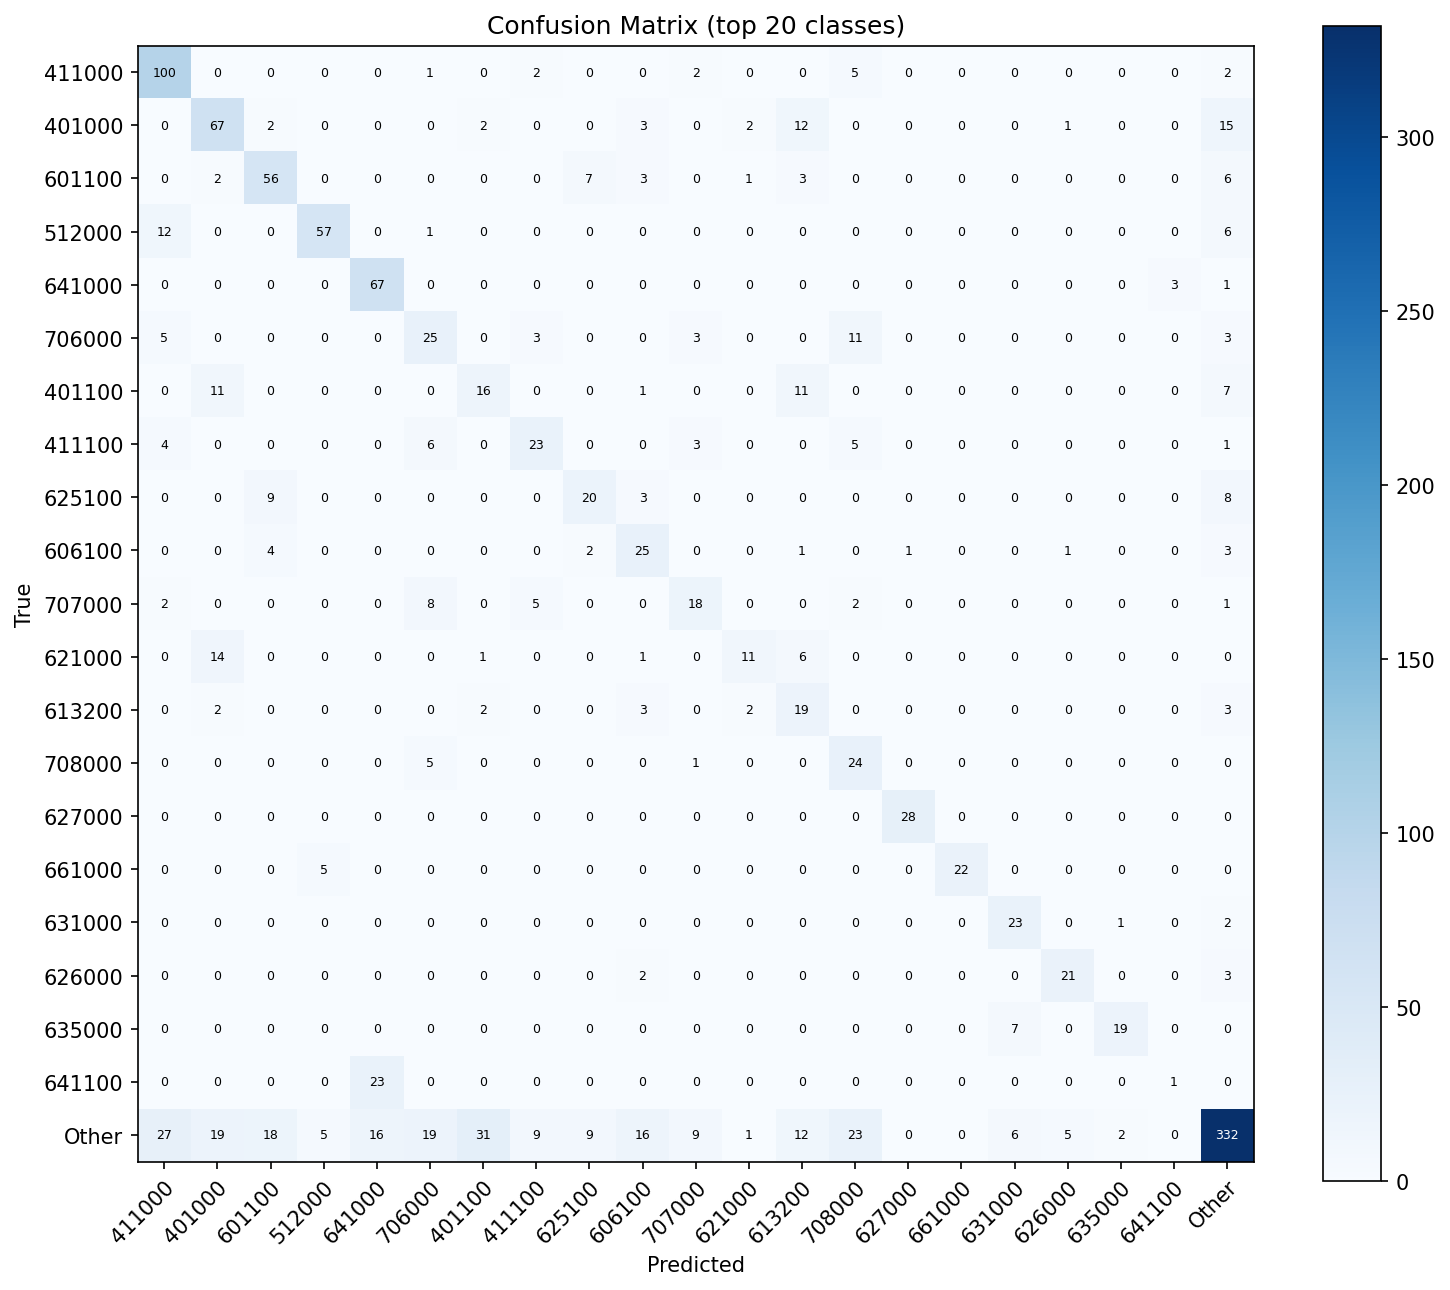
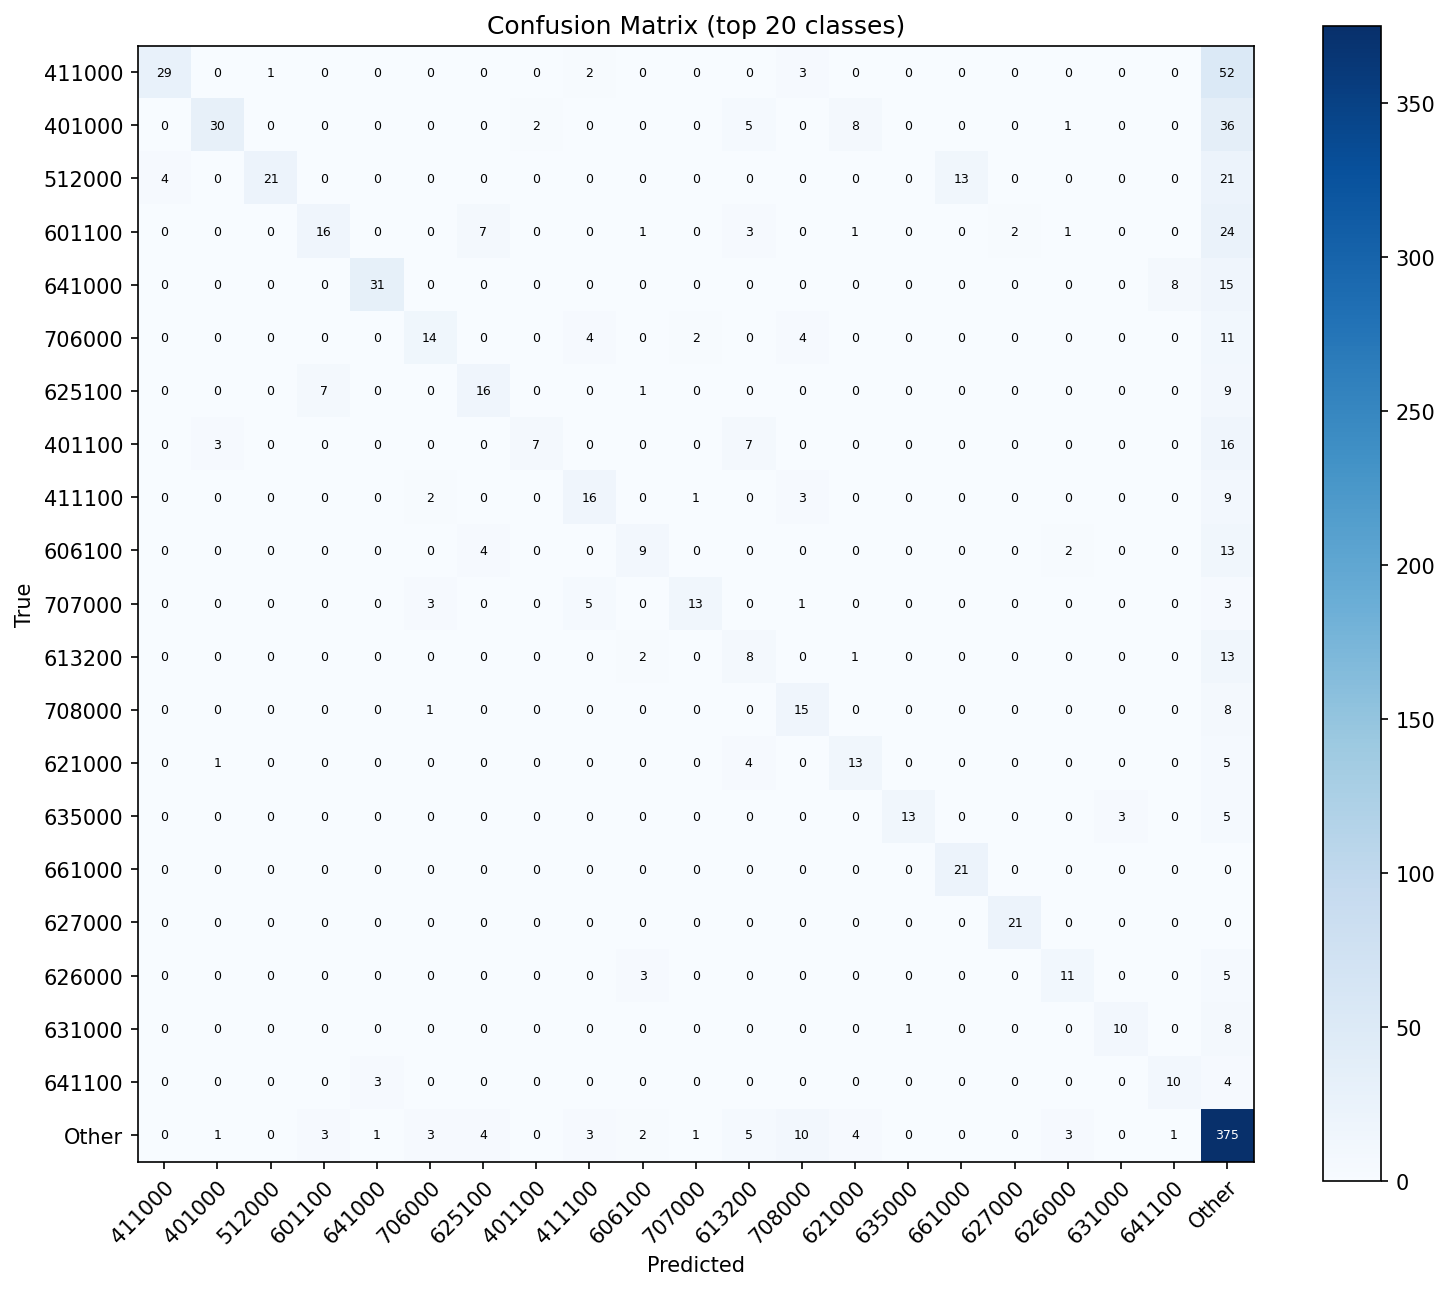
docs: refresh benchmark numbers and check them against reports

diff --git a/tests/unit/test_docs_parity.py b/tests/unit/test_docs_parity.py
@@ -1,0 +1,90 @@
+"""Numbers quoted in the docs must match the committed report files they come from.
+
+Each report under reports/ is written by a script; the README, model card and
+design doc copy its values into tables. These tests fail when a rerun updates a
+report but not the prose, or when a doc is edited by hand.
+"""
+
+import json
+from pathlib import Path
+from typing import Any
+
+import pytest
+
+ROOT = Path(__file__).resolve().parents[2]
+
+
+def _doc(relative_path: str) -> str:
+    """Doc text with bold markers stripped, so emphasised table cells still match."""
+    return (ROOT / relative_path).read_text(encoding="utf-8").replace("**", "")
+
+
+def _report(name: str) -> Any:
+    return json.loads((ROOT / "reports" / name).read_text(encoding="utf-8"))
+
+
+def _pct(value: float) -> str:
+    return f"{value * 100:.1f}%"
+
+
+def test_readme_key_results_match_reports():
+    metrics = _report("metrics.json")
+    ceiling = _report("ceiling.json")
+    readme = _doc("README.md")
+
+    expected = [
+        f"| Top-{k} accuracy | {_pct(metrics['top_k_accuracy'][str(k)])} |" for k in (1, 3, 5, 10)
+    ]
+    expected += [
+        f"| Balanced accuracy | {_pct(metrics['balanced_accuracy'])} |",
+        f"| Classes | {metrics['n_classes']} |",
+        f"| Evaluation samples | {metrics['n_samples']:,} |",
+        f"| Bayes ceiling, top-1 / top-5 | {_pct(ceiling['bayes_top1_accuracy'])} / "
+        f"{_pct(ceiling['bayes_top5_accuracy'])} |",
+    ]
+    missing = [row for row in expected if row not in readme]
+    assert missing == []
+
+
+def test_model_card_metrics_match_report():
+    metrics = _report("metrics.json")
+    card = _doc("docs/MODEL_CARD.md")
+
+    expected = [
+        f"| Top-{k} accuracy | {metrics['top_k_accuracy'][str(k)]:.3f} |" for k in (1, 3, 5, 10)
+    ]
+    expected += [
+        f"| Balanced accuracy | {metrics['balanced_accuracy']:.3f} |",
+        f"n = {metrics['n_samples']:,} evaluation samples",
+    ]
+    missing = [row for row in expected if row not in card]
+    assert missing == []
+
+
+@pytest.mark.parametrize("doc", ["README.md", "docs/DESIGN.md"])
+def test_feature_ablation_tables_match_report(doc):
+    text = _doc(doc)
+    expected = [
+        f"| {row['feature_set']} | {row['accuracy']:.4f} | {row['balanced_accuracy']:.4f} |"
+        for row in _report("feature_ablation.json")
+    ]
+    missing = [row for row in expected if row not in text]
+    assert missing == []
+
+
+def test_class_weighting_table_matches_report():
+    design = _doc("docs/DESIGN.md")
+    labels = {"unweighted": "none", "balanced": "balanced (default)"}
+    columns = (
+        "top1_accuracy",
+        "top3_accuracy",
+        "top5_accuracy",
+        "balanced_accuracy",
+        "rare_class_mean_recall",
+    )
+    expected = [
+        "| " + " | ".join([labels[row["weighting"]], *(f"{row[c]:.4f}" for c in columns)]) + " |"
+        for row in _report("class_weighting.json")
+    ]
+    missing = [row for row in expected if row not in design]
+    assert missing == []

diff --git a/README.md b/README.md
@@ -14,29 +14,29 @@ Trained on **synthetic data** (7,508 transactions, 80 account classes). On real 
 
 | Metric | Value |
 |---|---|
-| Top-1 accuracy | 58.7% |
-| Top-3 accuracy | 83.0% |
-| Top-5 accuracy | 90.9% |
-| Top-10 accuracy | 98.7% |
-| Balanced accuracy | 49.3% |
+| Top-1 accuracy | 50.2% |
+| Top-3 accuracy | 80.7% |
+| Top-5 accuracy | 90.7% |
+| Top-10 accuracy | 98.8% |
+| Balanced accuracy | 56.9% |
 | Classes | 80 |
-| Evaluation samples | 1,502 |
-| Bayes ceiling, top-1 / top-5 | 67.8% / 94.9% |
+| Evaluation samples | 1,127 |
+| Bayes ceiling, top-1 / top-5 | 67.8% / 94.8% |
 
-The ceiling row is the Bayes-optimal classifier under the generator's own sampling process, scored on the same test rows: no model can beat it in expectation, so it is the yardstick for every synthetic number above ([`scripts/estimate_ceiling.py`](scripts/estimate_ceiling.py) — committed run: [`reports/ceiling.json`](reports/ceiling.json)).
+All rows are measured on the held-out temporal test block (the most recent 15% of transactions, never seen by early stopping or tuning). The ceiling row is the Bayes-optimal classifier under the generator's own sampling process, scored on the same test rows: no model can beat it in expectation, so it is the yardstick for every synthetic number above ([`scripts/estimate_ceiling.py`](scripts/estimate_ceiling.py) — committed run: [`reports/ceiling.json`](reports/ceiling.json)).
 
-See the [Model Card](docs/MODEL_CARD.md) for intended use, factors, limitations, and drift/maintenance guidance. Top-1 is a weak summary of this system — it is designed as a ranked top-K suggestion tool with a human in the loop, which is why the top-3/top-5 numbers and the accuracy-vs-balanced-accuracy gap matter more.
+See the [Model Card](docs/MODEL_CARD.md) for intended use, factors, limitations, and drift/maintenance guidance. Top-1 is a weak summary of this system — it is designed as a ranked top-K suggestion tool with a human in the loop, which is why the top-3/top-5 numbers and balanced accuracy matter more. Training uses balanced class weights, which trade about 8pp of top-1 for +9pp balanced accuracy and +19pp recall on rare codes ([measured](docs/DESIGN.md#class-imbalance)).
 
 ### Feature Ablation
 
-Cumulative accuracy on the held-out temporal test block. Each row adds one feature family. Same XGBoost hyperparameters throughout.
+Cumulative accuracy on the held-out temporal test block. Each row adds one feature family. Same unweighted XGBoost hyperparameters throughout.
 
 | Feature set | Accuracy | Balanced Accuracy |
 |---|---|---|
-| TF-IDF only | 0.5546 | 0.4418 |
-| + numeric | 0.5905 | 0.5045 |
-| + date | 0.5792 | 0.4865 |
-| + domain (all features) | 0.5772 | 0.4834 |
+| TF-IDF only | 0.5324 | 0.4007 |
+| + numeric | 0.5909 | 0.4875 |
+| + date | 0.5794 | 0.4728 |
+| + domain (all features) | 0.5856 | 0.4831 |
 
 Date and domain features show marginal or negative lift on synthetic data because the generator produces uniformly distributed timestamps and simplified entity patterns. On real client data with seasonal patterns and consistent entity naming, these features provide meaningful signal. Reproduce with `uv run python scripts/eval_ablation.py` — committed run: [`reports/feature_ablation.json`](reports/feature_ablation.json).
 

diff --git a/docs/MODEL_CARD.md b/docs/MODEL_CARD.md
@@ -46,19 +46,24 @@ and `reports/model_comparison.json`; see the [README](../README.md) for reproduc
 ## Metrics
 
 Evaluated on the held-out temporal test block (the most recent 15% of transactions, which neither
-early stopping nor tuning ever sees; n = **1,502** evaluation samples).
+early stopping nor tuning ever sees; n = **1,127** evaluation samples), with balanced class
+weights (the default).
 
 | Metric | Value |
 |---|---|
-| Top-1 accuracy | 0.584 |
-| Top-3 accuracy | 0.830 |
-| Top-5 accuracy | 0.909 |
-| Top-10 accuracy | 0.987 |
-| Balanced accuracy | 0.488 |
+| Top-1 accuracy | 0.502 |
+| Top-3 accuracy | 0.807 |
+| Top-5 accuracy | 0.907 |
+| Top-10 accuracy | 0.988 |
+| Balanced accuracy | 0.569 |
 
-**Read the gap between accuracy (0.584) and balanced accuracy (0.488) carefully:** the macro
-view is weaker than the headline because minority classes underperform. Top-1 is a poor
-summary of this system; the top-K ranking metrics are the ones aligned with its intended use.
+**Read accuracy (0.502) and balanced accuracy (0.569) together:** balanced class weights push
+the model toward rare account codes, so the macro view sits *above* the headline. Without them
+the order flips (0.581 vs 0.479, [`reports/class_weighting.json`](../reports/class_weighting.json)):
+frequent codes are predicted well and rare ones are missed. Top-1 is a poor summary of this
+system; the top-K ranking metrics are the ones aligned with its intended use. On this synthetic
+data no classifier can exceed a Bayes-optimal top-1 of 0.678 or top-5 of 0.949 on the same rows
+([`reports/ceiling.json`](../reports/ceiling.json)).
 
 Model comparison (same hyperparameter style): XGBoost (balanced acc 0.488, F1-weighted 0.553)
 beats LightGBM (0.405 / 0.515); logistic regression is not competitive (0.012 / 0.016) — the

diff --git a/docs/DESIGN.md b/docs/DESIGN.md
@@ -408,13 +408,13 @@ Rare-class recall is the mean recall over the 20 test-block classes in the botto
 
 ### Feature ablation
 
-Accuracy on the held-out temporal test block (15% most recent transactions) with cumulative feature sets. Each row adds one feature family to the previous row. All models use the same XGBoost hyperparameters (500 estimators, depth 6, lr 0.05).
+Accuracy on the held-out temporal test block (15% most recent transactions) with cumulative feature sets. Each row adds one feature family to the previous row. All models use the same unweighted XGBoost hyperparameters (500 estimators, depth 6, lr 0.05). Reproduce with `uv run python scripts/eval_ablation.py` — committed run: [`reports/feature_ablation.json`](../reports/feature_ablation.json).
 
 | Feature set | Accuracy | Balanced Accuracy |
 |---|---|---|
-| TF-IDF only | 0.5546 | 0.4418 |
-| + numeric features | 0.5905 | 0.5045 |
-| + date features | 0.5792 | 0.4865 |
-| + domain features (all) | 0.5772 | 0.4834 |
+| TF-IDF only | 0.5324 | 0.4007 |
+| + numeric | 0.5909 | 0.4875 |
+| + date | 0.5794 | 0.4728 |
+| + domain (all features) | 0.5856 | 0.4831 |
 
 > **Note on synthetic data:** Date and domain features show marginal or negative lift here because the synthetic generator produces uniformly distributed timestamps and simplified entity patterns. On real client data, where fiscal-period clustering and entity-specific accounting rules create learnable signals, domain features contributed +3-5% top-1 accuracy. The features are retained because the system is designed for production data characteristics, not synthetic benchmarks.
